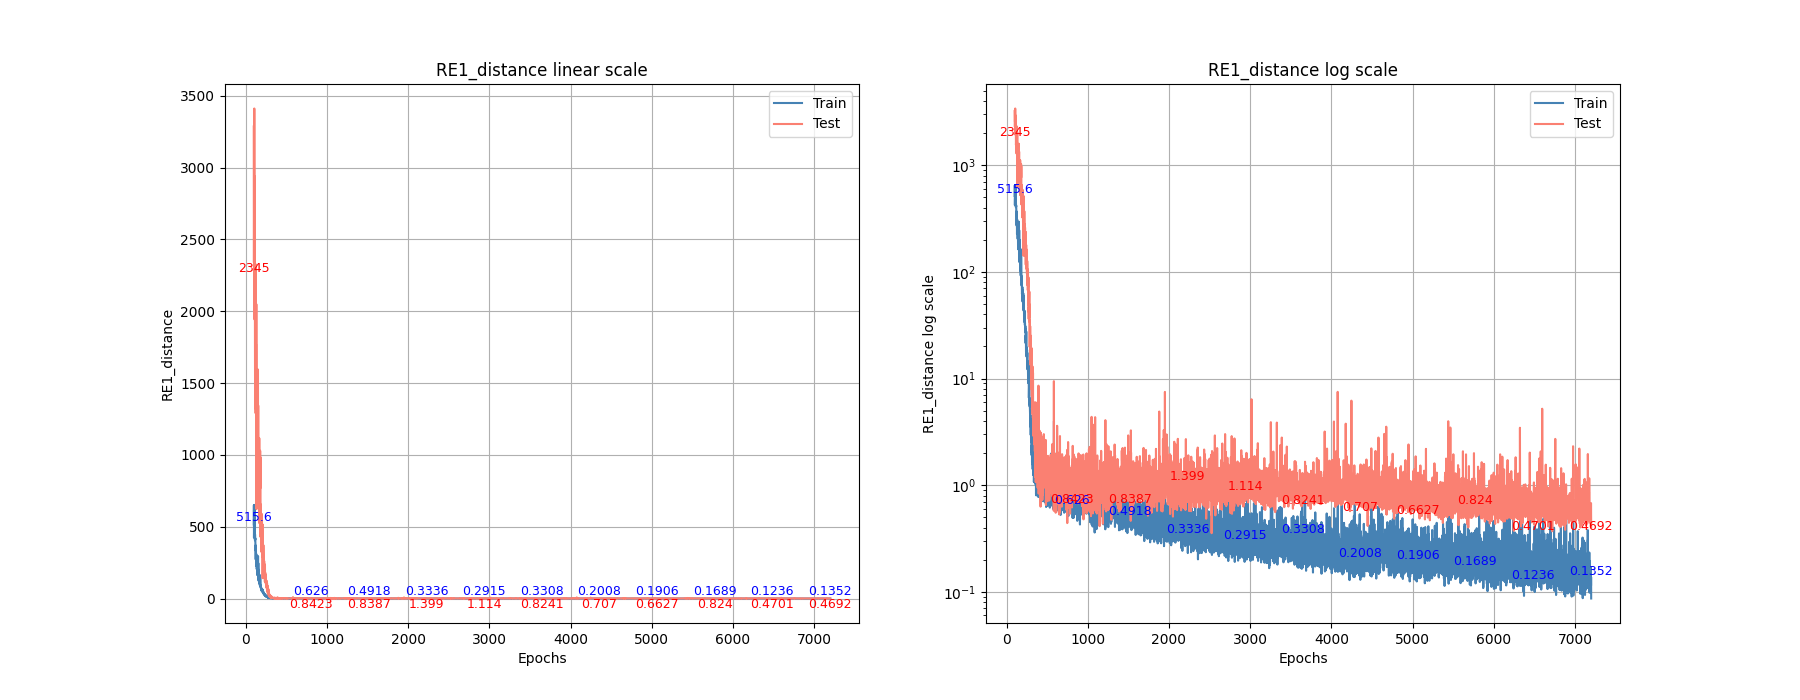
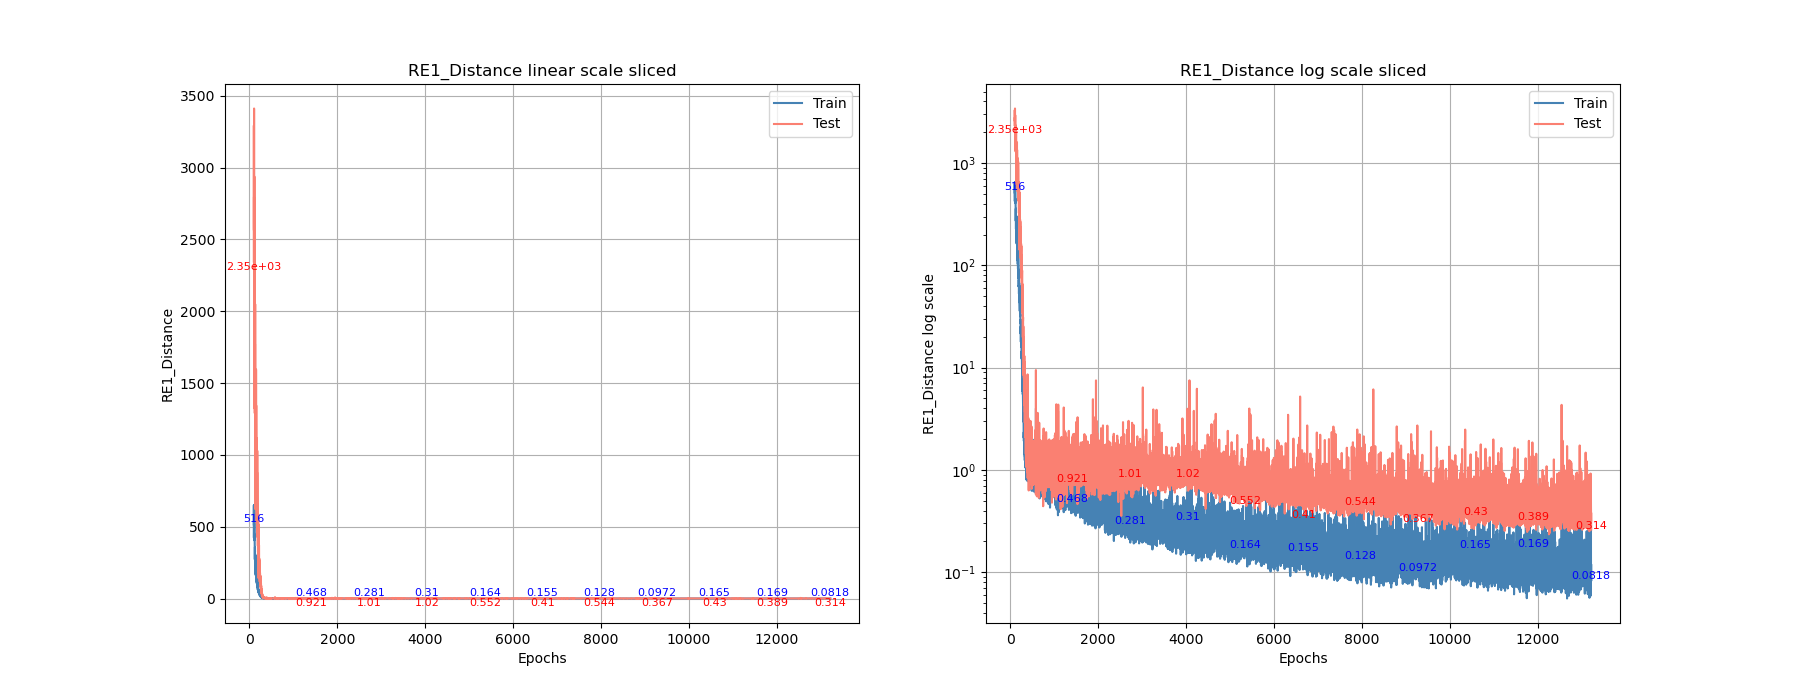
.

diff --git a/PlotFromText.py b/PlotFromText.py
@@ -129,7 +129,7 @@ def plot_all_folder(folder_path):
             plot_by_output(folder_path)
 
 if __name__ == "__main__":
-    root_path = "plots/Kitti2Sceneflow/SED_0.5__L2_1__huber_1__lr_0.001__conv__CLIP__use_reconstruction_True/BS_8__ratio_1__frozen_0"
+    root_path = "plots/Kitti2Sceneflow/SED_0.5__L2_1__huber_1__lr_0.0001__conv__CLIP__use_reconstruction_True/BS_8__ratio_1__frozen_0__fresh_MLP"
 
 
     plot_by_output(root_path)
